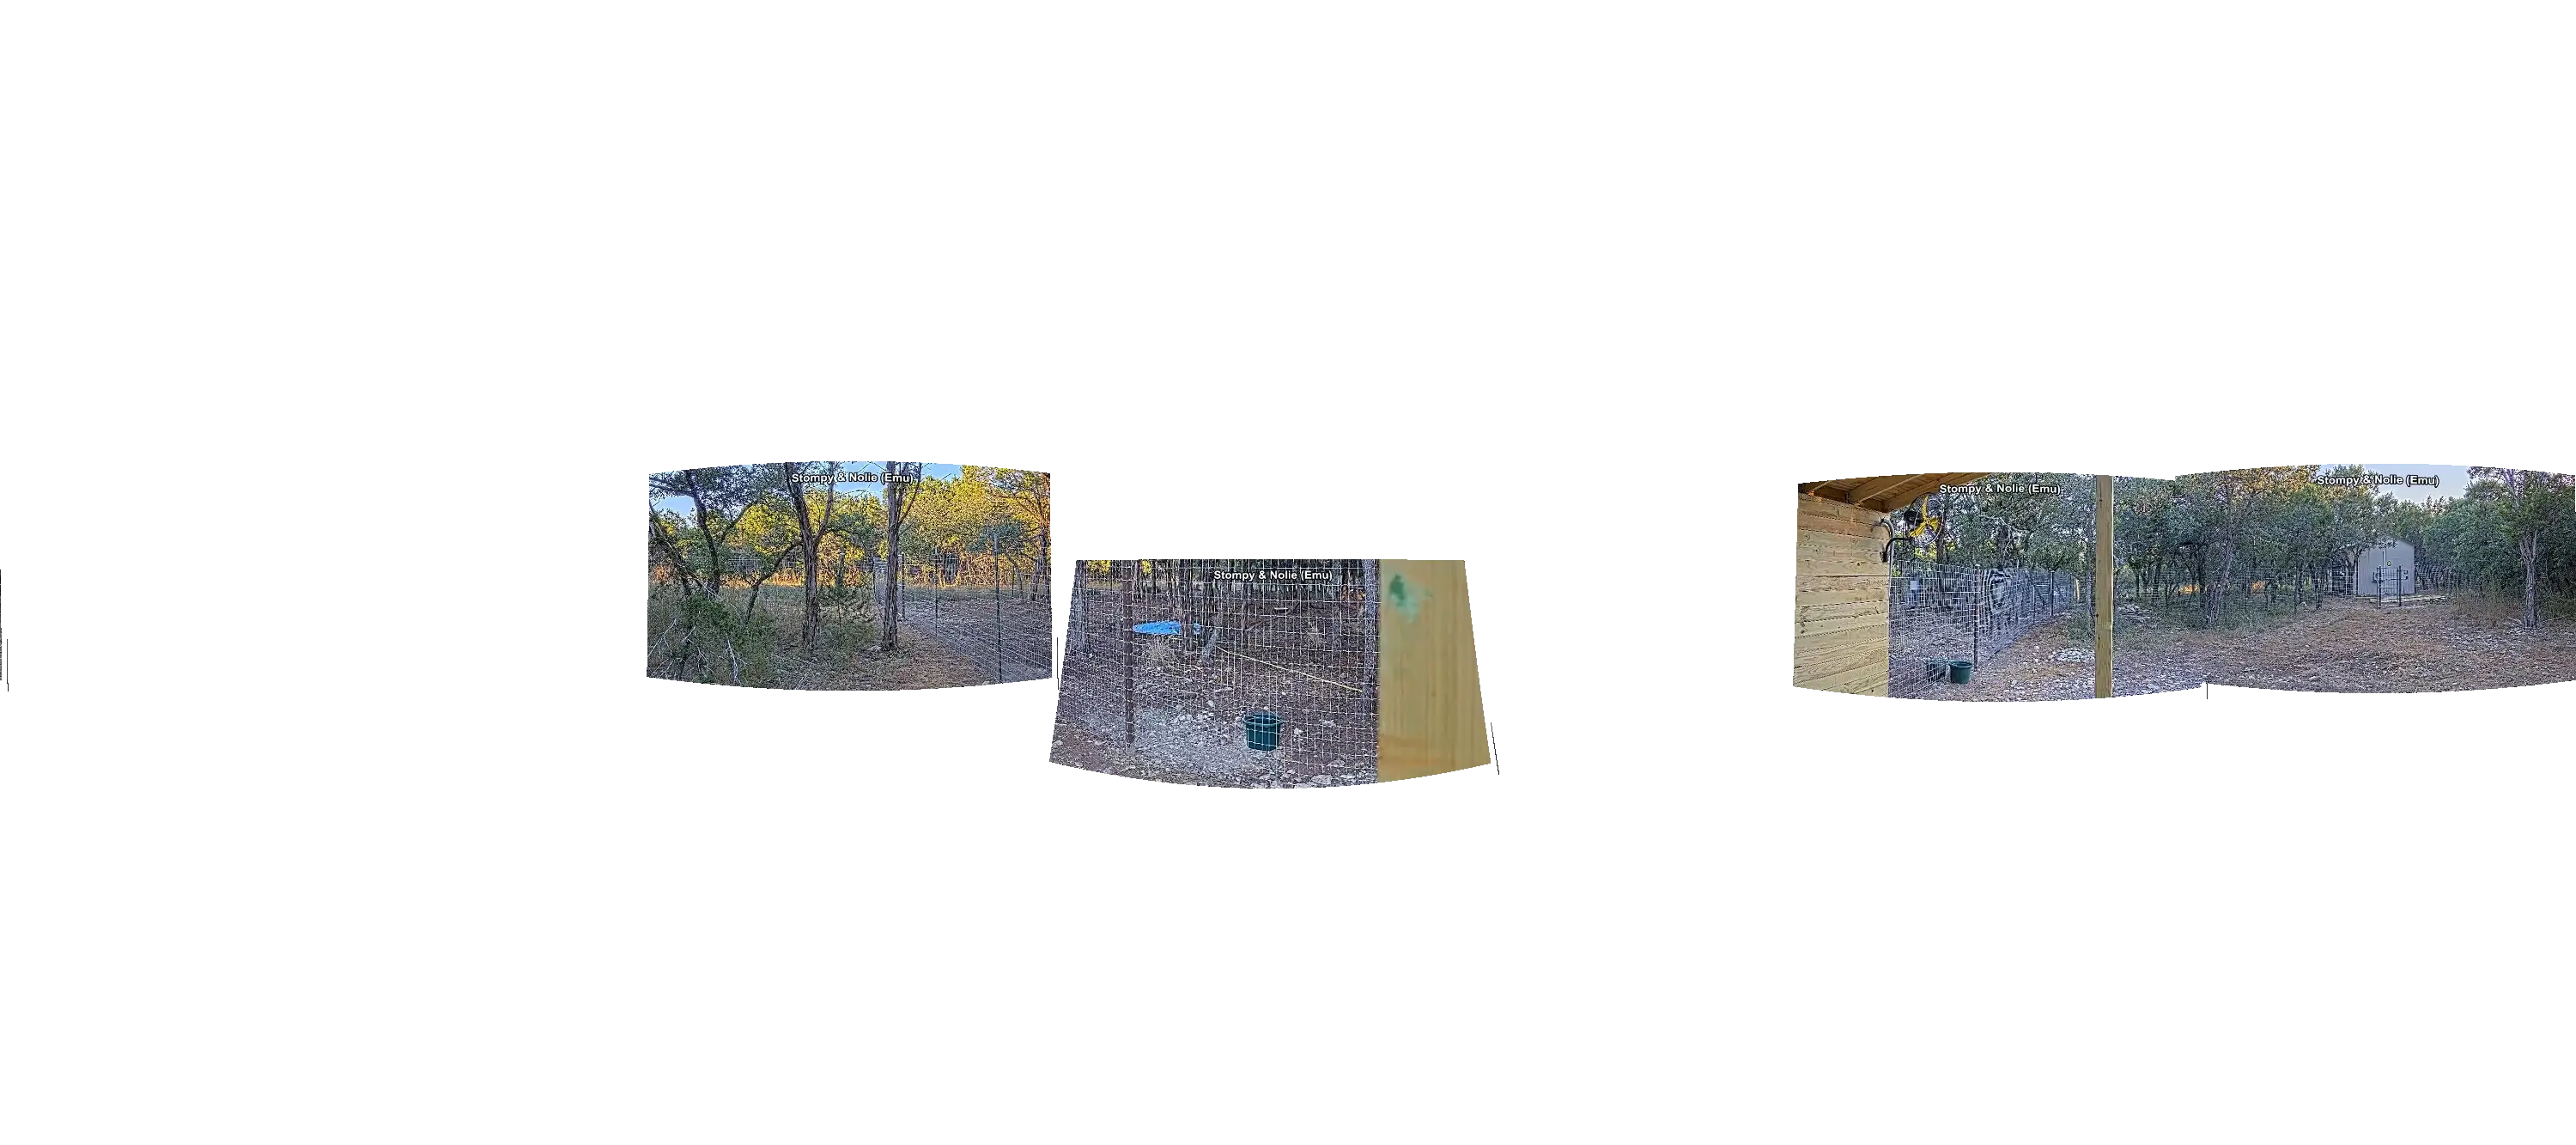
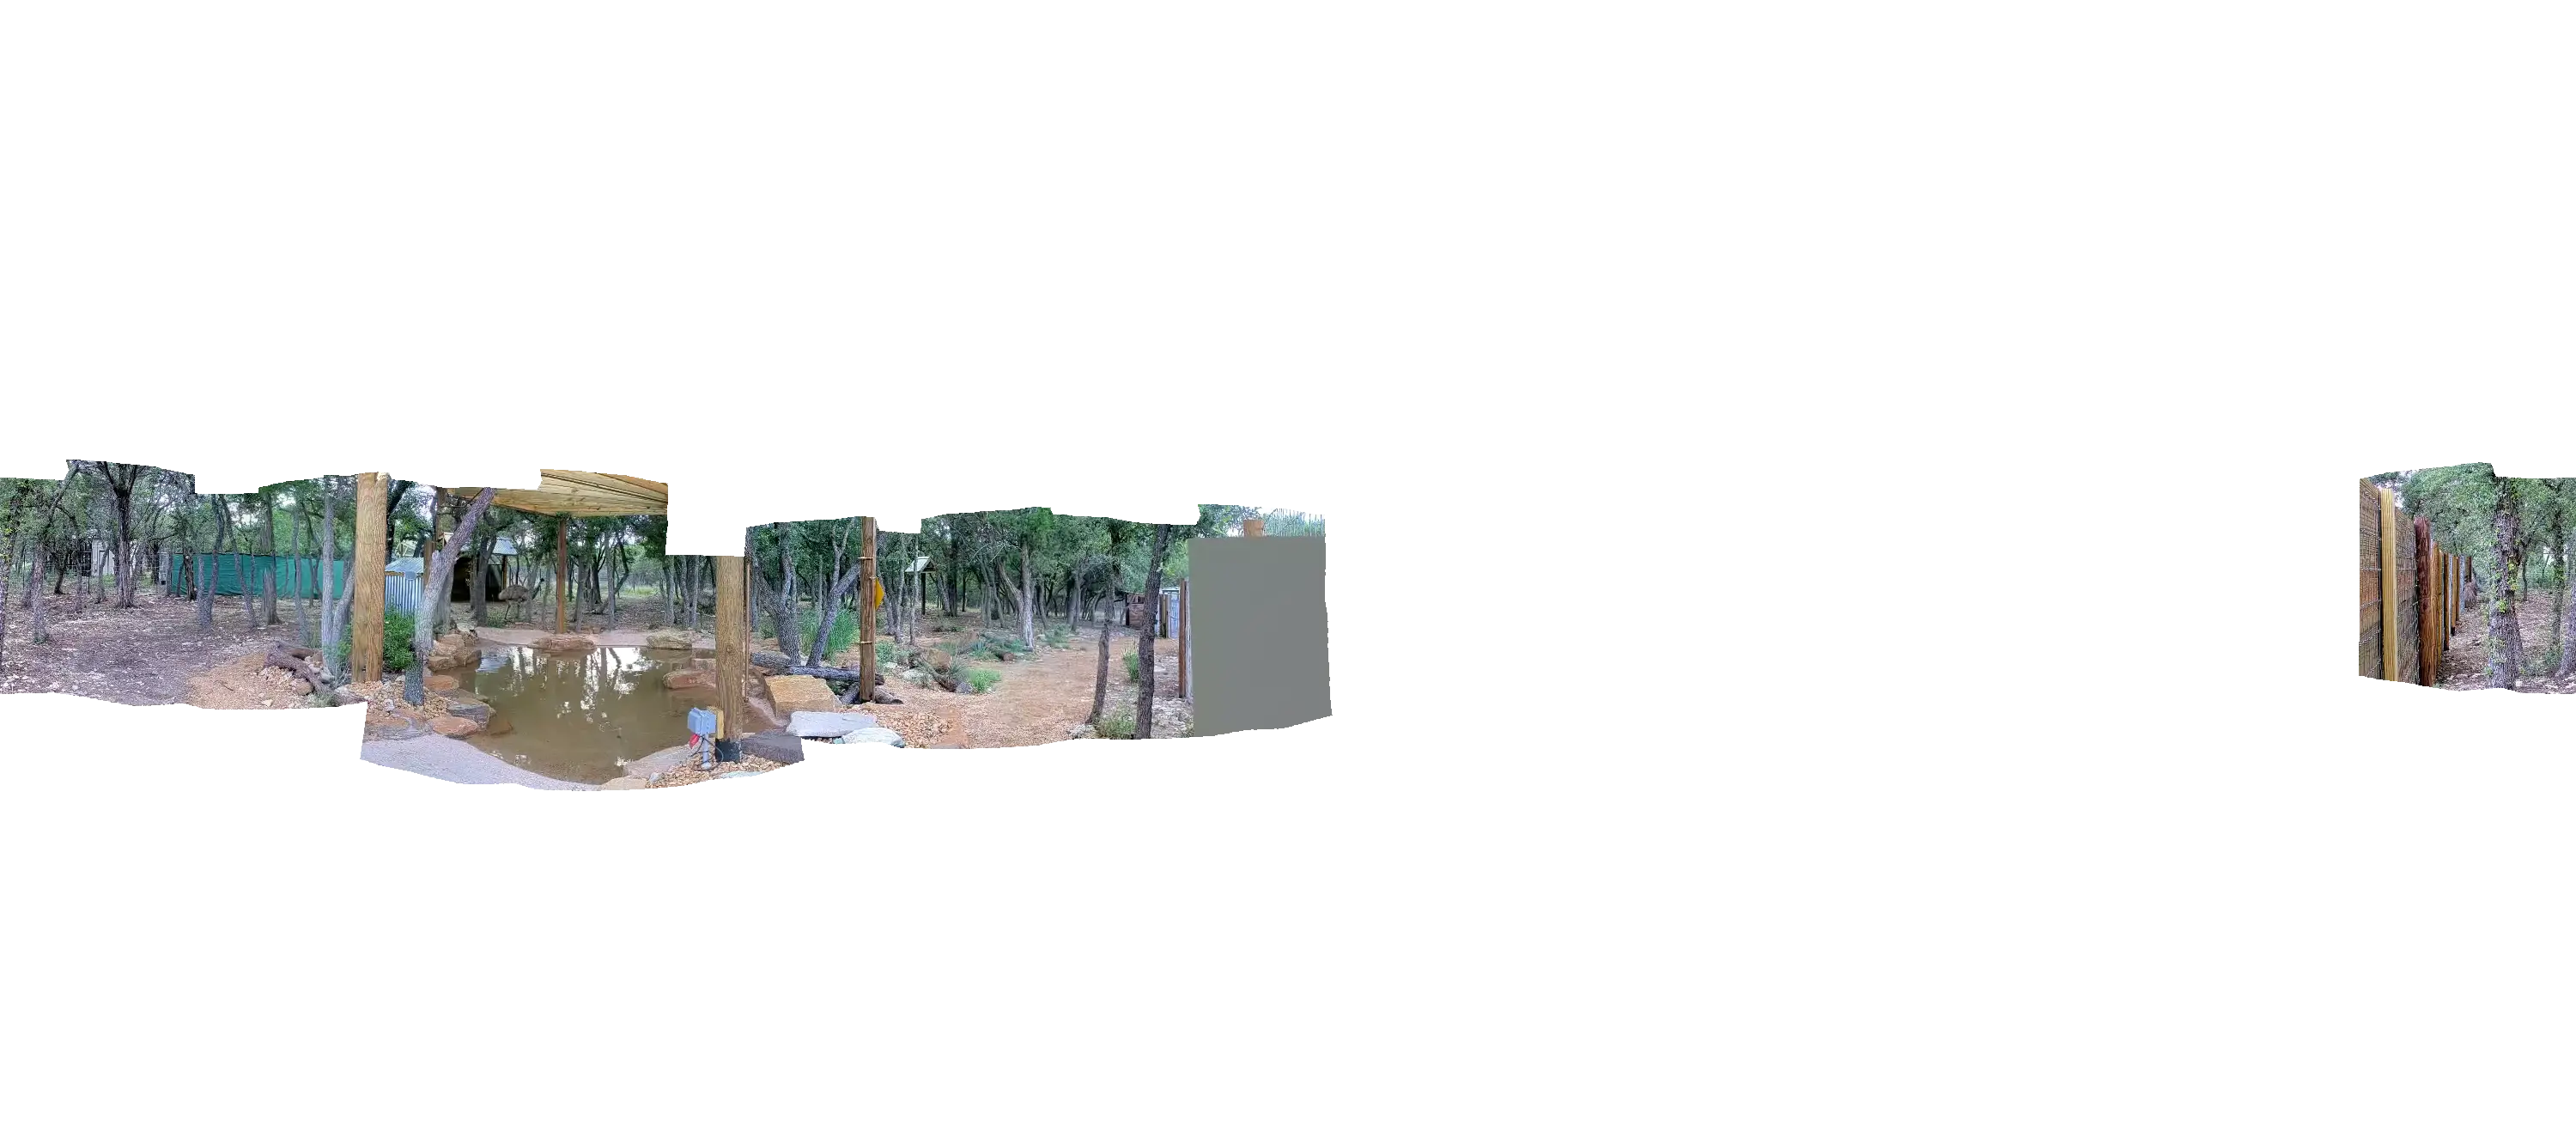
enable emu cam page

Changed region(s): [[0.0, 0.3998, 0.589, 0.7074], [0.682, 0.3998, 1.0, 0.6152]]

diff --git a/src/images.tsx b/src/images.tsx
@@ -3,6 +3,7 @@ import chicken_pano from "./chicken_pano.webp";
 import chickenin_pano from "./chickenin_pano.webp";
 import crowin_pano from "./crowin_pano.webp";
 import crowout_pano from "./crowout_pano.webp";
+import emu_pano from "./emu_pano.webp";
 import fox_pano from "./fox_pano.webp";
 import foxcovered_pano from "./foxcovered_pano.webp";
 import garden_pano from "./garden_pano.webp";
@@ -43,13 +44,13 @@ const images: Record<CamType, string | null> = {
   wolfcorner: wolfcorner_pano,
   wolfindoor: wolfindoor_pano,
   wolfswitch: wolfswitch_pano,
+  emu: emu_pano,
 
   noodle: null,
   roach: null,
   marty: null,
   patchy: null,
   event: null,
-  emu: null,
   emucover: null,
 };
 

diff --git a/src/cams.ts b/src/cams.ts
@@ -36,7 +36,6 @@ const HiddenCams = new Set([
   "marty",
   "patchy",
   "event",
-  "emu",
   "emucover",
 ]);
 